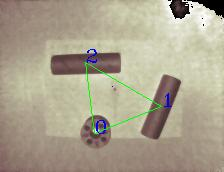
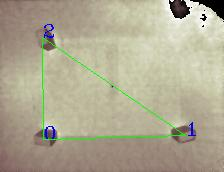
calibracio en proces

diff --git a/totfinsara/FlaskProject/templates/error_calibracio.html b/totfinsara/FlaskProject/templates/error_calibracio.html
@@ -1,0 +1,44 @@
+<!DOCTYPE html>
+<html lang="es">
+  <head>
+
+    <link rel="stylesheet" type="text/css" href="{{url_for('static', filename='style/error_calibracio.css')}}" >
+    <link rel="icon" type="image/ico" href="{{url_for('static', filename='img/favicon.ico')}}">
+    
+    <title>OpenCV</title>
+    <meta charset="utf-8">
+    <meta name="viewport" content="width=device-width, initial-scale=1">
+    
+  </head>
+
+
+  <body id=body>
+    
+    <ul>
+      <li><a class="active" href="/configuracio">GO BACK</a></li>
+      <li><a href="/configuracio"> Configuracio </a></li>
+      <li><a href="/">Videos en directe</a></li>
+      <li><a href="/parametres"> Parametrització</a></li>
+      <li><a href="/angles">Objectes i Angles </a></li>
+      <img id=logo src="{{ url_for('static', filename='img/nomgran.jpg') }}">
+
+    </ul>
+
+    {% if calib_flagg == 1 %}
+      <h1 class="text_error"> Error detecció: Falta detectar 1 element per poder calibrar </h1>
+    {% endif %}
+
+    {% if calib_flagg == 2 %}
+      <h1 class="text_error"> Error detecció: Falten detectar 2 element per poder calibrar </h1>
+    {% endif %}
+
+    {% if calib_flagg == 3 %}
+      <h1 class="text_error">Error detecció: Falten detectar 3 element per poder calibrar </h1>
+    {% endif %}
+
+    {% if calib_flagg == 4 %}
+      <h1 class="text_error">Error inclinació: L'alçada dels 3 elements no coincideix </h1>
+    {% endif %}
+
+  </body>
+</html>

diff --git a/totfinsara/FlaskProject/static/style/error_calibracio.css b/totfinsara/FlaskProject/static/style/error_calibracio.css
@@ -1,0 +1,48 @@
+ul {
+    z-index: 2;
+    list-style-type: none;
+    margin: 0;
+    padding: 0;
+    overflow: hidden;
+    background-color: white;
+    position: fixed;
+    top: 0;
+    width: 100%;
+}
+
+li {
+    float: left;
+}
+
+li a {
+    display: block;
+    color: black;
+    text-align: center;
+    padding: 14px 16px;
+    text-decoration: none;
+}
+
+li a:hover:not(.active) {
+    background-color: #b3b4b3;
+}
+
+.active {
+    background-color: #b3b4b3;
+}
+
+#logo {
+    position: absolute;
+    right: 2%;
+    top: 20%;
+    width: 20%;
+    height: 50%;
+    z-index: 3;
+}
+
+.text_error{
+    position: absolute;
+    top: 32%;
+    left: 15%;
+    font-size: 25px;
+}
+

diff --git a/totfinsara/FlaskProject/templates/resultats_calibracio.html b/totfinsara/FlaskProject/templates/resultats_calibracio.html
@@ -15,8 +15,8 @@
   <body id=body>
 
     <ul>
-        <li><a href="/configuracio">GO BACK</a></li>
-        <li><a class="active" href="/configuracio"> Configuracio </a></li>
+        <li><a class="active" href="/configuracio">GO BACK</a></li>
+        <li><a href="/configuracio"> Configuracio </a></li>
         <li><a href="/">Videos en directe</a></li>
         <li><a href="/parametres"> Parametrització</a></li>
         <li><a href="/angles">Objectes i Angles </a></li>

diff --git a/totfinsara/FlaskProject/videos_separats_proves.py b/totfinsara/FlaskProject/videos_separats_proves.py
@@ -46,6 +46,9 @@ global mostra, mostra2
 
 global frame_valid
 
+global calib_flagg
+calib_flagg = 0
+
 global headings, headings2
 headings = ("ID","Angle","POS X","POS Y","POS Z")
 headings2 = ("ID", "RIGHT","LEFT", "BOTTOM", "TOP", "HEIGHT")
@@ -82,6 +85,8 @@ def function(flag, cam):
     global llistaCentreMases,resta_color, img_grey, img_contorns, binary, keyp
     global im_xyz, im_rdis, im_amp
     global amplitut_color_lineas
+    
+    calib_flagg = 0
 
     
     grados_flagg = False
@@ -285,14 +290,17 @@ def function(flag, cam):
         
 
         if flag == 1:
-            if len(llistaCentreMases) == 3:
-              
-                cv2.line(amplitut_color_lineas,(int(llistaCentreMases[0][0]),int(llistaCentreMases[0][1])),(int(llistaCentreMases[1][0]),int(llistaCentreMases[1][1])),(0,255,0), 1)
-                cv2.line(amplitut_color_lineas,(int(llistaCentreMases[0][0]),int(llistaCentreMases[0][1])),(int(llistaCentreMases[2][0]),int(llistaCentreMases[2][1])),(0,255,0), 1)
-                cv2.line(amplitut_color_lineas,(int(llistaCentreMases[2][0]),int(llistaCentreMases[2][1])),(int(llistaCentreMases[1][0]),int(llistaCentreMases[1][1])),(0,255,0), 1)
+            #e1 = im_xyz[int(llistaCentreMases[0][1]),int(llistaCentreMases[0][0]),0] 
+            #e2 = im_xyz[int(llistaCentreMases[1][1]),int(llistaCentreMases[1][0]),0] 
+            #e3 = im_xyz[int(llistaCentreMases[2][1]),int(llistaCentreMases[2][0]),0] 
+            #print(e1,e2,e3)
 
-                scipy.misc.imsave('static/img/calibracio.jpg', amplitut_color_lineas)
+            cv2.line(amplitut_color_lineas,(int(llistaCentreMases[0][0]),int(llistaCentreMases[0][1])),(int(llistaCentreMases[1][0]),int(llistaCentreMases[1][1])),(0,255,0), 1)
+            cv2.line(amplitut_color_lineas,(int(llistaCentreMases[0][0]),int(llistaCentreMases[0][1])),(int(llistaCentreMases[2][0]),int(llistaCentreMases[2][1])),(0,255,0), 1)
+            cv2.line(amplitut_color_lineas,(int(llistaCentreMases[2][0]),int(llistaCentreMases[2][1])),(int(llistaCentreMases[1][0]),int(llistaCentreMases[1][1])),(0,255,0), 1)
 
+            scipy.misc.imsave('static/img/calibracio.jpg', amplitut_color_lineas)
+    
             ret, jpeg = cv2.imencode('.jpg',amplitut_color_lineas)
         
         elif flag == 2:
@@ -320,7 +328,7 @@ def function(flag, cam):
         
 @app.route('/calibrate')
 def calibrate():
-    
+    global calib_flagg
     global im_xyz, im_rdis, im_amp, frame_inici, detector, img_contorns, amplitut_color
     
     amplitut_color = cv2.applyColorMap(im_amp.astype(np.uint8), cv2.COLORMAP_BONE)
@@ -329,15 +337,17 @@ def calibrate():
     for i in range(171):
         for j in range(223):
 
-            if resta[i][j] > 0.01:
+            if resta[i][j] > 0.06:
                 resta[i][j]= 0    #blanc
             else:
                 resta[i][j]= 100  #negre
     
     calibratge(resta, detector)
     
-    
-    return render_template("resultats_calibracio.html")
+    if calib_flagg != 0:
+        return render_template("error_calibracio.html", calib_flagg = calib_flagg)
+    else:
+        return render_template("resultats_calibracio.html")
 
 @app.route('/1')
 def video1():
@@ -934,6 +944,8 @@ def calibratge(resta,  detector):
     
     global llistaCentreMases,resta_color, img_grey, img_contorns, binary, keyp, amplitut_color
     global llista_bool, llista_definitiva, llista_definitiva2, mitjanaReal
+    global calib_flagg
+
     matriu_blanc = np.zeros((172,224), np.uint8)
     resta_color = cv2.applyColorMap(resta.astype(np.uint8), cv2.COLORMAP_TWILIGHT)
     img_grey = cv2.cvtColor(resta_color, cv2.COLOR_BGR2GRAY)
@@ -944,16 +956,15 @@ def calibratge(resta,  detector):
 
     llistaCentreMases = []
     
-    
     num_elements = 0
     if len(keypoints) > 0:
-        
+
         for k in range(len(keypoints)):
             #print(len(keypoints))
             llista = []
             llista2 = []
   
-            num_elements +=1
+            num_elements += 1
             
             x = keypoints[k].pt[0]
             y = keypoints[k].pt[1]
@@ -964,7 +975,7 @@ def calibratge(resta,  detector):
                 
                 area = cv2.contourArea(cnt)
                 
-                if area > 200 and area < 1200:   
+                if area > 100 and area < 1200:   
                     
                     M = cv2.moments(cnt)
                     
@@ -980,9 +991,7 @@ def calibratge(resta,  detector):
 
                         llista_bool = True
                        
-  
-
-    #print(llistaCentreMases)      
+    print(llistaCentreMases)      
     keyp = cv2.drawKeypoints(amplitut_color,keypoints, np.array([]), (0,0,255), cv2.DRAW_MATCHES_FLAGS_DRAW_RICH_KEYPOINTS)
     
     if num_elements == 3:
@@ -993,44 +1002,88 @@ def calibratge(resta,  detector):
         P1 = llistaCentreMases[1]
         P2 = llistaCentreMases[2]
 
-        distancia1 = math.sqrt(((P0[0]-P1[0])**2)+((P0[1]-P1[1])**2))
-        distancia2 = math.sqrt(((P0[0]-P2[0])**2)+((P0[1]-P2[1])**2))
-        distancia3 = math.sqrt(((P2[0]-P1[0])**2)+((P2[1]-P1[1])**2))
+        P0_X = im_xyz[int(llistaCentreMases[0][1]),int(llistaCentreMases[0][0]),1]
+        P0_Y = im_xyz[int(llistaCentreMases[0][1]),int(llistaCentreMases[0][0]),2]
+        P0_Z = im_xyz[int(llistaCentreMases[0][1]),int(llistaCentreMases[0][0]),0]
         
+        P1_X = im_xyz[int(llistaCentreMases[1][1]),int(llistaCentreMases[1][0]),1]
+        P1_Y = im_xyz[int(llistaCentreMases[1][1]),int(llistaCentreMases[1][0]),2]
+        P1_Z = im_xyz[int(llistaCentreMases[1][1]),int(llistaCentreMases[1][0]),0]
+        
+        P2_X = im_xyz[int(llistaCentreMases[2][1]),int(llistaCentreMases[2][0]),1]
+        P2_Y = im_xyz[int(llistaCentreMases[2][1]),int(llistaCentreMases[2][0]),2]
+        P2_Z = im_xyz[int(llistaCentreMases[2][1]),int(llistaCentreMases[2][0]),0]
+        
+        #print(P0_X,P0_Y,P0_Z)
+        #print(P1_X,P1_Y,P1_Z)
+        #print(P2_X,P2_Y,P2_Z)
+
+
+        distancia1 = math.sqrt(((P1_X-P0_X)**2)+((P1_Y-P0_Y)**2))
+        distancia2 = math.sqrt(((P1_X-P2_X)**2)+((P1_Y-P2_Y)**2))
+        distancia3 = math.sqrt(((P0_X-P2_X)**2)+((P0_Y-P2_Y)**2))
+        
+        #print(distancia1,distancia2,distancia3)
+    
         if distancia1 > distancia2 and distancia1 > distancia3:
-            Punt0 = P2
-            Punt1 = P1
-            Punt2 = P0
+            Punt0 = [P2_X, P2_Y, P2_Z]
+            Punt1 = [P1_X, P1_Y, P1_Z]
+            Punt2 = [P0_X, P0_Y, P0_Z]
 
-        if distancia2 > distancia1 and distancia2 > distancia3:
-            Punt0 = P1
-            Punt1 = P2
-            Punt2 = P0
+        elif distancia2 > distancia1 and distancia2 > distancia3:
+            Punt0 = [P0_X, P0_Y, P0_Z]
+            Punt1 = [P1_X, P1_Y, P1_Z]
+            Punt2 = [P2_X, P2_Y, P2_Z]
+
+        elif distancia3 > distancia1 and distancia3 > distancia2:
+            Punt0 = [P1_X, P1_Y, P1_Z]
+            Punt1 = [P0_X, P0_Y, P0_Z]
+            Punt2 = [P2_X, P2_Y, P2_Z]
+        
+        #print(Punt0)
+
+        print(P0_Z, P1_Z, P2_Z)
+        if abs(P0_Z - P1_Z) > 0.00001:
+            print("Error: L'alçada dels objectes no es vàlida")
+            calib_flagg = 4
+            
+        if abs(P1_Z - P2_Z) > 0.00001:
+            print("Error: L'alçada dels objectes no es vàlida")
+            calib_flagg = 4
+        
+        if abs(P2_Z - P0_Z) > 0.00001:
+            print("Error: L'alçada dels objectes no es vàlida")
+            calib_flagg = 4
+       
 
 
-        if distancia3 > distancia1 and distancia3 > distancia2:
-            Punt0 = P0
-            Punt1 = P1
-            Punt2 = P2
-
-        angle_rad = math.atan((Punt0[1]-Punt1[1])/(Punt0[0]-Punt1[0]))
-        angle_rad2 = math.atan((Punt0[1]-Punt2[1])/(Punt0[0]-Punt2[0]))
+        angle_rad = math.atan2((Punt0[0]-Punt1[0])/(Punt0[1]-Punt1[1]))
+        angle_rad2 = math.atan((Punt0[0]-Punt2[1])/(Punt0[0]-Punt2[0]))
 
         angle_graus = (angle_rad * 180)/ math.pi
-        angle_graus2 = (angle_rad2 * 180)/ math.pi
+        #angle_graus2 = (angle_rad2 * 180)/ math.pi
 
         #print(angle_graus, angle_graus2)
 
-        desplaçament = Punt0[0],Punt0[1] 
-        print(desplaçament)
+        #desplaçament = Punt0[0],Punt0[1] 
+        #print(desplaçament)
 
     elif num_elements == 2:
-        print("Falta detectar 1 element per poder calibrar")
+
+        calib_flagg = 1
+        print("Error: Falta detectar 1 element per poder calibrar")
+        
+    
     elif num_elements ==1:
-        print("Falten detectar 2 elements per poder calibrar")
+        
+        calib_flagg = 2
+        print("Error: Falten detectar 2 elements per poder calibrar")
+
     elif num_elements ==0:
-        print("Falten detectar 3 elements per poder calibrar")
 
+        calib_flagg = 3
+        print("Error: Falten detectar 3 elements per poder calibrar")
 
+    print(calib_flagg)
 if __name__ == '__main__':
     app.run(host='192.168.0.80', debug=True, threaded=True)
